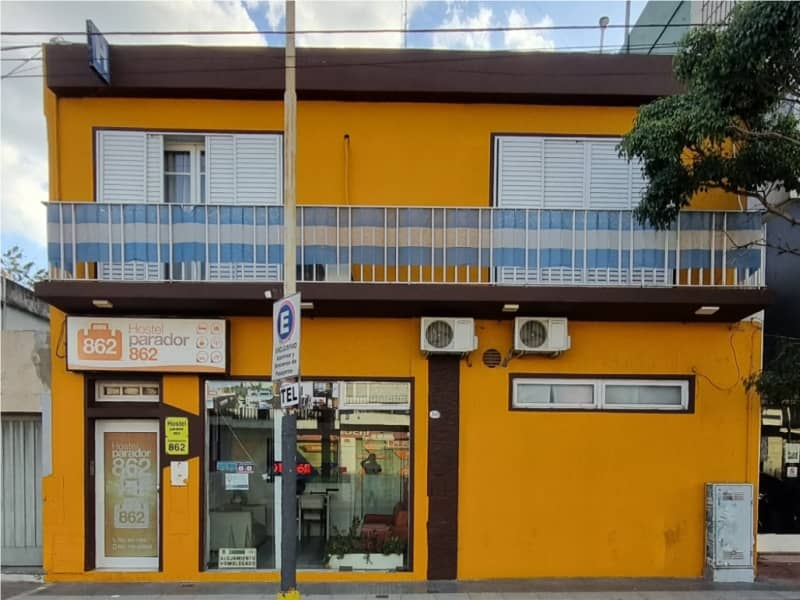
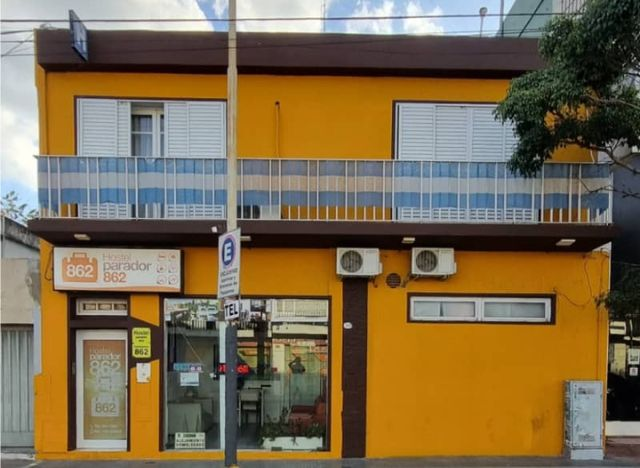
se ajustaron imagenes en tamaño y peso

diff --git a/alojamientos.html b/alojamientos.html
@@ -118,7 +118,7 @@
                 
                 <!-- Hotel Card: Hotel apart PH 236 -->
                 <div class="hotel-card" data-aos="fade-up" data-aos-delay="100">
-                    <img src="img/hoteles/ph236.png" alt="Hotel apart PH 236" class="hotel-image">
+                    <img src="img/hoteles/ph236.jpg" alt="Hotel apart PH 236" class="hotel-image">
                     <div class="hotel-info">
                         <div>
                             <h3 class="hotel-name">Hotel apart PH 236</h3>
@@ -141,7 +141,7 @@
 
                 <!-- Hotel Card: Hotel Suboficiales de Fuerza Aérea -->
                 <div class="hotel-card" data-aos="fade-up" data-aos-delay="200">
-                    <img src="img/hoteles/fuerza-aerea.png" alt="Hotel Suboficiales de Fuerza Aérea" class="hotel-image">
+                    <img src="img/hoteles/fuerza-aerea.jpg" alt="Hotel Suboficiales de Fuerza Aérea" class="hotel-image">
                     <div class="hotel-info">
                         <div>
                             <h3 class="hotel-name">Hotel Suboficiales de Fuerza Aérea</h3>
@@ -197,7 +197,7 @@
 
                 <!-- Hotel Card: Hotel Suboficiales del Ejército - CIRSE -->
                 <div class="hotel-card" data-aos="fade-up" data-aos-delay="200">
-                    <img src="img/hoteles/cirse.png" alt="Hotel Suboficiales del Ejército - CIRSE" class="hotel-image">
+                    <img src="img/hoteles/cirse.jpg" alt="Hotel Suboficiales del Ejército - CIRSE" class="hotel-image">
                     <div class="hotel-info">
                         <div>
                             <h3 class="hotel-name">Hotel Suboficiales del Ejército - CIRSE</h3>
@@ -238,7 +238,7 @@
 
                 <!-- Hotel Card: Hotel Las Mañanitas -->
                 <div class="hotel-card" data-aos="fade-up" data-aos-delay="100">
-                    <img src="img/hoteles/las-mananitas.png" alt="Hotel Las Mañanitas" class="hotel-image">
+                    <img src="img/hoteles/las-mananitas.jpg" alt="Hotel Las Mañanitas" class="hotel-image">
                     <div class="hotel-info">
                         <div>
                             <h3 class="hotel-name">Hotel Las Mañanitas</h3>
